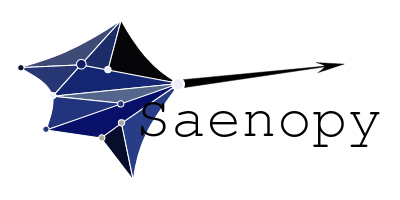
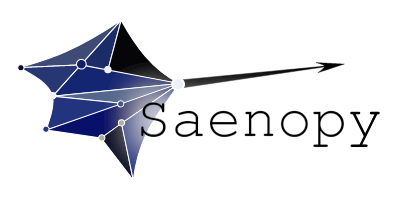
made animation a bit smoother

diff --git a/saenopy/gui/gui_master.py b/saenopy/gui/gui_master.py
@@ -61,7 +61,7 @@ class MainWindow(QtWidgets.QWidget):
                         def timer():
                             nonlocal timer_index
                             if timer_index == 14:
-                                self.image.setPixmap(QtGui.QPixmap(resource_path("Logo.png")))
+                                #self.image.setPixmap(QtGui.QPixmap(resource_path("Logo.png")))
                                 self.image_timer.stop()
                                 return
                             self.image.setPixmap(QtGui.QPixmap(resource_path(f"animation/frame{timer_index:02d}.png")))
